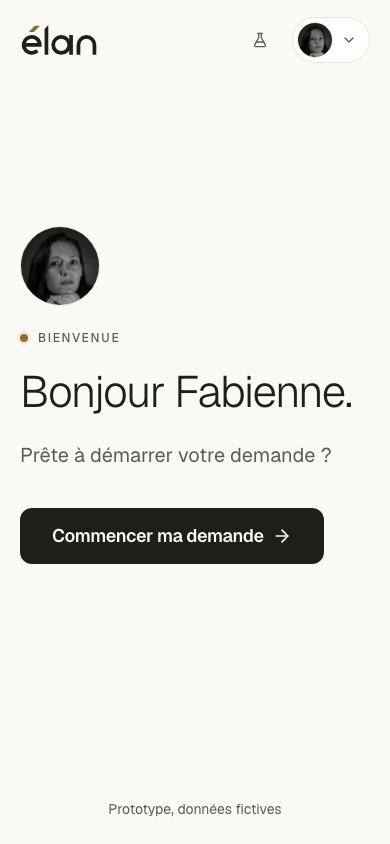
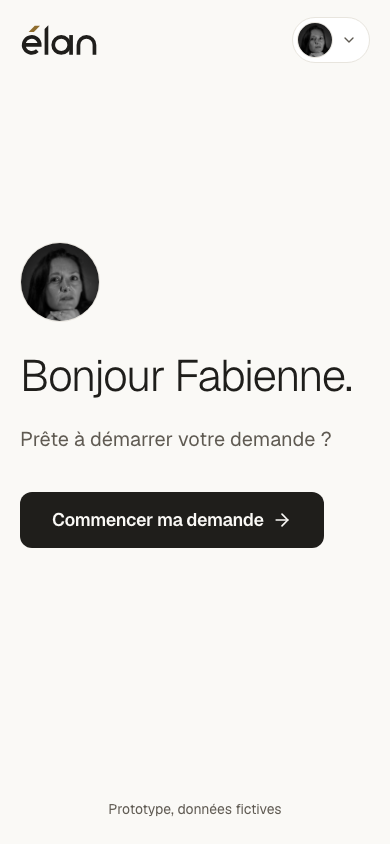
Retire l'échafaudage de démo de l'interface par défaut, supprime les textes de PM

diff --git a/html/js/page-recapitulatif.js b/html/js/page-recapitulatif.js
@@ -16,7 +16,7 @@ function vue() {
   const raison = bloque ? `Il manque ${c.manquantes.length} pièce${c.manquantes.length > 1 ? 's' : ''} obligatoire${c.manquantes.length > 1 ? 's' : ''}.` : !st.consentement ? 'Cochez la case de consentement pour envoyer.' : ''
   const off = bloque || !st.consentement
   main.innerHTML = `<div class="grid h-full min-h-0 grid-cols-[minmax(0,1fr)] gap-6 lg:grid-cols-[minmax(0,1fr)_26rem]">
-    <section aria-labelledby="titre" class="flex min-h-0 min-w-0 flex-col gap-4 lg:overflow-y-auto"><div><p class="eyebrow">Avant l’envoi</p><h1 id="titre" tabindex="-1" class="mt-3 text-[clamp(1.75rem,3vw,2.5rem)] font-bold leading-tight tracking-tighter outline-none">Vérifiez, puis envoyez votre demande.</h1></div>
+    <section aria-labelledby="titre" class="flex min-h-0 min-w-0 flex-col gap-4 lg:overflow-y-auto"><div><h1 id="titre" tabindex="-1" class=" text-[clamp(1.75rem,3vw,2.5rem)] font-bold leading-tight tracking-tighter outline-none">Vérifiez, puis envoyez votre demande.</h1></div>
       <div class="rounded-card border border-border bg-surface p-5 shadow-sm"><div class="flex items-start justify-between gap-4"><h2 class="text-lg font-semibold tracking-tight">Résumé de la demande</h2><button type="button" data-modifier class="${btn('ghost', 'sm')}">${icon('pencil')}Modifier</button></div><dl class="mt-3 grid grid-cols-[8rem_minmax(0,1fr)] gap-x-4 gap-y-2 text-base"><dt class="text-muted">Financement</dt><dd class="font-medium">${esc(f.nom)}</dd><dt class="text-muted">Objet</dt><dd class="font-medium">${esc(st.objet)}</dd><dt class="text-muted">Montant souhaité</dt><dd class="tabular font-medium">${a.montant !== undefined ? eur(a.montant) : `<button type="button" data-modifier class="tr cursor-pointer font-medium text-accent-text underline underline-offset-4">Préciser le montant</button>`}</dd></dl></div>
       <div class="rounded-card border border-border bg-surface p-5 shadow-sm"><div class="flex items-start justify-between gap-4"><h2 class="text-lg font-semibold tracking-tight">Vos pièces</h2><p class="tabular text-sm text-muted">${c.faites} sur ${c.total}${corr ? `, ${c.aCorriger.length} à corriger` : ''}</p></div><ul class="mt-3 grid gap-x-6 gap-y-1.5 sm:grid-cols-2">${PIECES.map((p) => `<li class="flex min-w-0 items-center justify-between gap-3 text-sm"><span class="min-w-0 truncate">${esc(p.nom)}</span>${badgeStatut(st.etat[p.id].statut)}</li>`).join('')}</ul></div></section>
     <aside aria-label="Envoi" class="flex min-h-0 min-w-0 flex-col gap-4 overflow-y-auto pb-2"><div class="rounded-card border border-border bg-surface p-5 shadow-md"><h2 class="text-lg font-semibold tracking-tight">Votre consentement</h2>
@@ -26,7 +26,7 @@ function vue() {
       ${echec ? `<div class="mt-4">${banniere({ ton: 'danger', titre: 'Envoi impossible', corps: esc(echec) })}</div>` : ''}
       <button type="button" id="envoyer" ${off ? `aria-disabled="true" title="${esc(raison)}"` : ''} ${envoi ? 'aria-busy="true"' : ''} class="${btn('primary', 'lg', 'mt-5 w-full')}">${envoi ? icon('loader-circle', 'size-4 animate-[spin_0.8s_linear_infinite]') : ''}${corr && !bloque ? 'Envoyer quand même' : 'Envoyer ma demande'}${icon('arrow-right', 'size-5')}</button>${raison ? `<p class="mt-2 text-xs text-muted">${esc(raison)}</p>` : ''}
       <a href="/demande/pieces" class="${btn('ghost', 'sm', 'mt-2')}">${icon('arrow-left')}Revenir aux pièces</a></div>
-      <div class="rounded-card bg-bg-soft p-5"><h2 class="text-lg font-semibold tracking-tight">Et ensuite</h2><div class="mt-3">${chronologie([{ titre: 'Réception', detail: 'Vous recevez la confirmation.', etat: 'current' }, { titre: 'Instruction par un chargé d’affaires', etat: 'todo' }, { titre: 'Réponse', detail: 'Délai estimé : sous 10 jours ouvrés', etat: 'todo' }])}</div><p class="mt-2 text-xs text-subtle">Délais et durée de conservation : exemples fictifs de démonstration.</p></div></aside></div>`
+      <div class="rounded-card bg-bg-soft p-5"><h2 class="text-lg font-semibold tracking-tight">Et ensuite</h2><div class="mt-3">${chronologie([{ titre: 'Réception', detail: 'Vous recevez la confirmation.', etat: 'current' }, { titre: 'Instruction par un chargé d’affaires', etat: 'todo' }, { titre: 'Réponse', detail: 'Délai estimé : sous 10 jours ouvrés', etat: 'todo' }])}</div></div></aside></div>`
 }
 main.addEventListener('change', (e) => { if (e.target.id === 'consent') { pieces.set({ consentement: e.target.checked }); vue(); $('#consent')?.focus() } })
 main.addEventListener('click', async (e) => {

diff --git a/html/js/page-envoyee.js b/html/js/page-envoyee.js
@@ -12,11 +12,11 @@ const st = pieces.get(), a = demande.get().answers, c = compter(st.etat)
 const f = financements.find((x) => x.id === (demande.get().financementId ?? 'pret-equipement-artisans'))
 const date = new Date(st.envoyeLe ?? Date.now())
 main.innerHTML = `<div class="mx-auto grid h-full min-h-0 max-w-5xl content-center gap-8 lg:grid-cols-[minmax(0,1fr)_24rem]">
-  <section aria-labelledby="titre" class="flex flex-col justify-center">${logo('wordmark', 'h-9 self-start')}<p class="eyebrow mt-8">Demande envoyée</p><h1 id="titre" tabindex="-1" class="mt-3 text-[clamp(2rem,4vw,3.25rem)] font-bold leading-[1.05] tracking-tighter outline-none">Votre demande est envoyée.</h1>
+  <section aria-labelledby="titre" class="flex flex-col justify-center">${logo('wordmark', 'h-9 self-start')}<h1 id="titre" tabindex="-1" class="mt-8 text-[clamp(2rem,4vw,3.25rem)] font-bold leading-[1.05] tracking-tighter outline-none">Votre demande est envoyée.</h1>
     <p class="mt-4 max-w-md text-lg text-muted">Un chargé d’affaires l’instruit. Vous pouvez encore modifier une pièce : il est prévenu de chaque changement.</p>
     <dl class="mt-6 grid grid-cols-[9rem_minmax(0,1fr)] gap-x-4 gap-y-2 text-base"><dt class="text-muted">Numéro de dossier</dt><dd class="ident font-medium">${esc(st.numero ?? '—')}</dd><dt class="text-muted">Financement</dt><dd class="font-medium">${esc(f.nom)}</dd><dt class="text-muted">Montant souhaité</dt><dd class="tabular font-medium">${a.montant !== undefined ? eur(a.montant) : 'À préciser'}</dd><dt class="text-muted">Pièces</dt><dd class="tabular font-medium">${c.faites} sur ${c.total}</dd></dl>
     <div class="mt-7 flex flex-wrap gap-3"><button type="button" id="telecharger" class="${btn('secondary')}">${icon('download')}Télécharger le récapitulatif</button><a href="/demande/pieces" class="${btn('secondary')}">Modifier mes pièces</a><button type="button" id="suivi-lien" class="${btn('ghost')}">Suivre ma demande</button></div></section>
-  <div id="suivi" class="self-center rounded-card border border-border bg-surface p-6 shadow-md"><h2 class="eyebrow">Suivi de votre demande</h2><div class="mt-5">${chronologie([{ titre: 'Réception', detail: 'Votre demande est bien arrivée.', time: date.toLocaleString('fr-FR', { day: 'numeric', month: 'long', hour: '2-digit', minute: '2-digit' }), etat: 'done' }, { titre: 'Instruction par un chargé d’affaires', detail: 'Il vérifie vos pièces et vos critères.', etat: 'current' }, { titre: 'Réponse', detail: 'Délai estimé : sous 10 jours ouvrés', etat: 'todo' }])}</div><p class="mt-3 text-xs text-subtle">Délai et numéro de dossier : exemples fictifs de démonstration.</p><a href="/pro/dossiers/argile" class="${btn('ghost', 'sm', 'mt-3')}">${icon('external-link')}Voir côté chargé d’affaires (démo)</a></div></div>`
+  <div id="suivi" class="self-center rounded-card border border-border bg-surface p-6 shadow-md"><h2 class="eyebrow">Suivi de votre demande</h2><div class="mt-5">${chronologie([{ titre: 'Réception', detail: 'Votre demande est bien arrivée.', time: date.toLocaleString('fr-FR', { day: 'numeric', month: 'long', hour: '2-digit', minute: '2-digit' }), etat: 'done' }, { titre: 'Instruction par un chargé d’affaires', detail: 'Il vérifie vos pièces et vos critères.', etat: 'current' }, { titre: 'Réponse', detail: 'Délai estimé : sous 10 jours ouvrés', etat: 'todo' }])}</div><a href="/pro/dossiers/argile" class="${btn('ghost', 'sm', 'mt-3')}">${icon('external-link')}Voir côté chargé d’affaires (démo)</a></div></div>`
 $('#suivi-lien').onclick = () => $('#suivi').scrollIntoView({ behavior: 'smooth', block: 'center' })
 $('#telecharger').onclick = () => {
   const l = ['Récapitulatif de votre demande', `Numéro : ${st.numero ?? '—'}`, `Financement : ${f.nom}`, `Objet : ${st.objet}`, `Montant souhaité : ${a.montant !== undefined ? eur(a.montant) : 'à préciser'}`, '', 'Pièces :', ...PIECES.map((p) => `- ${p.nom} : ${st.etat[p.id].statut}`), '', 'Prototype, données fictives.']

diff --git a/html/js/eligibilite.js b/html/js/eligibilite.js
@@ -67,12 +67,12 @@ function resultat() {
   const vide = `<div class="rounded-card border border-border bg-surface p-5 sm:p-6"><h2 class="text-lg font-semibold tracking-tight">Ce qu’il faudrait pour devenir éligible</h2>${proche ? `<p class="mt-1 text-sm text-muted">Le plus proche de votre situation : <span class="font-medium text-text">${esc(proche.financement.nom)}</span>.</p><ul class="mt-3 flex flex-col gap-2">${proche.manque.map((m) => `<li class="rounded-md bg-bg-soft px-4 py-3"><p class="text-sm font-medium">${esc(m.label)}</p><p class="text-sm text-muted">${esc(m.raison)}</p></li>`).join('')}</ul>` : ''}<div class="mt-4"><button type="button" data-modifier class="${btn('secondary', 'sm')}">Modifier mes réponses</button></div></div>
     <div class="rounded-card border border-border bg-surface p-5 sm:p-6"><h2 class="text-lg font-semibold tracking-tight">D’autres pistes</h2><ul class="mt-3 flex flex-col gap-3">${alternatives.map((x) => `<li><p class="text-sm font-medium">${esc(x.nom)}</p><p class="text-sm text-muted">${esc(x.texte)}</p></li>`).join('')}</ul><div class="mt-4"><button type="button" data-conseiller class="${btn('primary', 'sm')}">${icon('phone')}Parler à un conseiller</button></div></div>`
   return `<div class="grid h-full min-h-0 gap-8 lg:grid-cols-[minmax(0,26rem)_minmax(0,1fr)] xl:grid-cols-[minmax(0,30rem)_minmax(0,1fr)]">
-    <section class="flex min-h-0 flex-col gap-5 lg:overflow-y-auto" aria-labelledby="resultat"><p class="eyebrow">Votre résultat</p>
+    <section class="flex min-h-0 flex-col gap-5 lg:overflow-y-auto" aria-labelledby="resultat">
       <h1 id="resultat" tabindex="-1" class="text-[clamp(1.875rem,3.2vw,2.875rem)] font-bold leading-[1.06] tracking-tighter outline-none">${liste.length > 0 ? `${liste.length === 1 ? '1 financement correspond' : `${liste.length} financements correspondent`} à votre projet.` : 'Aucun financement ne correspond pour l’instant.'}</h1>
       <div class="bg-ai rounded-md p-4 text-[var(--color-ai-text)]"><p class="mb-2 flex items-center gap-2 text-xs font-semibold uppercase tracking-wide text-[var(--color-ai-accent)]"><span aria-hidden="true" class="ai-line h-0.5 w-4 rounded-full"></span>Assistant Élan, généré par IA</p><p class="text-base leading-relaxed">${esc(explicationTete(a))}</p><p class="mt-3 border-t border-[var(--color-ai-border)] pt-2 text-xs text-[var(--color-ai-muted)]">Source : ${esc(REFERENTIEL)}</p></div>
       ${out.length ? `<details class="accordeon rounded-card border border-border bg-surface"><summary class="tr flex min-h-14 items-center justify-between gap-3 rounded-card px-5 py-3 hover:bg-bg-soft"><span class="font-semibold">Pourquoi pas les autres ? <span class="font-normal text-muted">(${out.length})</span></span><span class="chevron tr">${icon('chevron-down', 'size-5 text-muted')}</span></summary><ul class="flex flex-col gap-3 px-5 pb-5">${out.map((e) => `<li><p class="font-medium">${esc(e.financement.nom)}</p><p class="text-sm text-muted">${esc(e.pourquoiPas)}</p></li>`).join('')}</ul></details>` : ''}
       <div class="flex flex-wrap items-center gap-x-4 gap-y-1 text-sm"><button type="button" data-modifier class="tr min-h-11 cursor-pointer font-medium underline underline-offset-4 hover:text-accent-text">Modifier mes réponses</button><button type="button" data-conseiller class="tr min-h-11 cursor-pointer font-medium underline underline-offset-4 hover:text-accent-text">Parler à un conseiller</button></div>
-      <p class="text-xs text-subtle">Délais, montants et plafonds : exemples fictifs de démonstration.</p></section>
+    </section>
     <section class="flex min-h-0 flex-col gap-4 lg:overflow-y-auto" aria-label="${liste.length ? 'Financements possibles' : 'Pistes'}">${liste.length ? `<ul class="flex flex-col gap-4">${cartes}</ul>` : vide}</section></div>`
 }
 

diff --git a/html/js/page-pro.js b/html/js/page-pro.js
@@ -93,7 +93,7 @@ function rendre() {
   const relancer = pret ? `<button type="button" data-msg="confirmation" class="${btn('secondary')}">Confirmer la réception</button>` : `<button type="button" data-msg="relance" class="${btn('primary')}">Relancer</button>`
   const correction = d.aCorriger.length ? `<button type="button" data-msg="correction" class="${btn('ghost')}">Demander une correction</button>` : ''
   const corps = `${fileTravail(file)}<div class="flex min-h-0 min-w-0 flex-col gap-4">
-    <div class="rounded-card border border-border bg-surface p-5 shadow-sm"><div class="flex flex-wrap items-start justify-between gap-x-6 gap-y-3"><div class="min-w-0"><div class="flex flex-wrap items-center gap-3"><h1 tabindex="-1" class="text-2xl font-bold tracking-tighter outline-none">${esc(d.entreprise)}</h1>${statutBadge(d)}</div><p class="mt-1 text-muted">${esc(d.f.nom)} · <span class="tabular">${a.montant !== undefined ? eur(a.montant) : 'montant non renseigné'}</span> · envoyé le ${jour(d.envoyeLe)} · <span class="ident text-sm">${esc(d.numero ?? '')}</span></p><p class="mt-2 flex items-center gap-2 text-sm text-muted">${icon('clock')}<span class="tabular">Temps de relance estimé : environ 25 min (45 min sans Élan)</span><span class="text-xs text-subtle">ordre de grandeur à calibrer</span></p></div>
+    <div class="rounded-card border border-border bg-surface p-5 shadow-sm"><div class="flex flex-wrap items-start justify-between gap-x-6 gap-y-3"><div class="min-w-0"><div class="flex flex-wrap items-center gap-3"><h1 tabindex="-1" class="text-2xl font-bold tracking-tighter outline-none">${esc(d.entreprise)}</h1>${statutBadge(d)}</div><p class="mt-1 text-muted">${esc(d.f.nom)} · <span class="tabular">${a.montant !== undefined ? eur(a.montant) : 'montant non renseigné'}</span> · envoyé le ${jour(d.envoyeLe)} · <span class="ident text-sm">${esc(d.numero ?? '')}</span></p></div>
       <div class="flex flex-wrap items-center gap-2">${pret ? aInstruire + relancer : relancer + aInstruire}${correction}</div></div>
       ${pret ? '' : `<p id="raison-instruire" class="mt-3 text-sm text-muted">Instruire sera possible quand les pièces obligatoires ${d.manque.length ? 'manquantes ' : ''}${d.manque.length && d.aCorriger.length ? 'et ' : ''}${d.aCorriger.length ? 'à corriger ' : ''}seront reçues et vérifiées.</p>`}</div>
     <div class="grid min-h-0 min-w-0 flex-1 gap-4 lg:grid-cols-[minmax(0,0.9fr)_minmax(0,1.1fr)] lg:grid-rows-[minmax(0,1fr)]">

diff --git a/html/js/demo.js b/html/js/demo.js
@@ -36,7 +36,8 @@ export function ouvrirProfils() {
   const d = modale({ titre: 'Changer de profil', description: 'Le prototype se parcourt avec trois points de vue. Vos données sont conservées.', corps: `<ul class="flex flex-col gap-2">${PROFILS.map(([id, nom, , role]) => `<li><button type="button" data-profil-choix="${id}" aria-current="${courant === id}" class="tr flex min-h-16 w-full cursor-pointer items-center gap-4 rounded-md border px-4 py-3 text-left ${courant === id ? 'border-accent bg-accent-soft' : 'border-border bg-surface hover:bg-bg-soft'}">${avatar(id, 'size-11')}<span class="flex-1"><span class="block font-semibold tracking-tight">${esc(nom)}</span><span class="block text-sm text-muted">${esc(role)}</span></span>${courant === id ? icon('check', 'size-5 text-accent-text') : ''}</button></li>`).join('')}</ul>`, pied: `<button type="button" data-fermer class="${btn('ghost')}">Fermer</button>` }).ouvrir()
   d.addEventListener('click', (e) => { const c = e.target.closest('[data-profil-choix]'); if (!c) return; ui.set({ persona: c.dataset.profilChoix }); location.href = '/bonjour' })
 }
-export const boutonDemo = () => (location.pathname === '/' ? '' : `<button type="button" data-demo-ouvrir aria-expanded="false" aria-controls="panneau-demo" aria-label="Démo, panneau de démonstration" class="${btn('ghost', 'sm', '!text-muted hover:!text-text')}">${icon('flask-conical')}<span class="hidden sm:inline">Démo</span></button>`)
+if (new URLSearchParams(location.search).has('demo')) ui.set({ demoVisible: true })
+export const boutonDemo = () => (location.pathname === '/' || !ui.get().demoVisible ? '' : `<button type="button" data-demo-ouvrir aria-expanded="false" aria-controls="panneau-demo" aria-label="Démo, panneau de démonstration" class="${btn('ghost', 'sm', '!text-muted hover:!text-text')}">${icon('flask-conical')}<span class="hidden sm:inline">Démo</span></button>`)
 
 const segment = (nom, courant, options, attr) => `<fieldset class="flex flex-col gap-1.5"><legend class="eyebrow before:!hidden mb-1">${nom}</legend><div class="flex flex-wrap gap-1.5">${options.map(([id, l]) => `<button type="button" data-${attr}="${esc(id ?? '')}" aria-pressed="${courant === id}" class="tr min-h-9 cursor-pointer rounded-full border border-border-strong px-3 text-sm font-medium hover:bg-bg-soft aria-pressed:border-text aria-pressed:bg-text aria-pressed:text-bg">${l}</button>`).join('')}</div></fieldset>`
 

diff --git a/html/js/page-bonjour.js b/html/js/page-bonjour.js
@@ -18,8 +18,8 @@ function rendre() {
   const commence = id === 'fabienne' && (Object.keys(pieces.get().etat).some((k) => complete(pieces.get().etat[k].statut)) || demande.get().step > 0)
   racine.innerHTML = `<a href="#contenu" class="sr-only focus:not-sr-only focus:fixed focus:left-4 focus:top-4 focus:z-[var(--z-demo)] focus:rounded-sm focus:bg-text focus:px-4 focus:py-2 focus:text-bg">Aller au contenu</a>
   <header class="mx-auto flex h-20 w-full max-w-[88rem] items-center justify-between px-5 sm:px-8"><a href="/" aria-label="Élan, accueil">${logo('wordmark', 'h-8')}</a><div class="flex items-center gap-2">${boutonDemo()}${boutonProfil()}</div></header>
-  <main id="contenu" class="mx-auto flex w-full max-w-[64rem] flex-1 flex-col justify-center px-5 pb-16 sm:px-8">${avatar(id, 'size-20')}<p class="eyebrow mt-6">Bienvenue</p>
-    <h1 tabindex="-1" class="mt-6 text-[clamp(2.75rem,7vw,5.5rem)] font-light leading-[1.02] tracking-[-0.03em] outline-none">${esc(p.salut)}</h1><p class="mt-6 max-w-2xl text-xl leading-relaxed text-muted">${esc(p.texte)}</p>
+  <main id="contenu" class="mx-auto flex w-full max-w-[64rem] flex-1 flex-col justify-center px-5 pb-16 sm:px-8">${avatar(id, 'size-20')}
+    <h1 tabindex="-1" class="mt-8 text-[clamp(2.75rem,7vw,5.5rem)] font-light leading-[1.02] tracking-[-0.03em] outline-none">${esc(p.salut)}</h1><p class="mt-6 max-w-2xl text-xl leading-relaxed text-muted">${esc(p.texte)}</p>
     <div class="mt-9 flex flex-wrap items-center gap-4"><a href="${p.url}" class="${btn('primary', 'lg')}">${commence ? 'Reprendre ma demande' : esc(p.cta)}${icon('arrow-right', 'size-5')}</a>${commence ? `<a href="/eligibilite?recommencer" class="${btn('ghost', 'lg')}">Recommencer</a>` : ''}</div>
 </main>
   <footer class="px-5 py-6 text-center sm:px-8"><p class="text-sm text-muted">Prototype, données fictives</p></footer>`

diff --git a/html/js/page-pieces.js b/html/js/page-pieces.js
@@ -107,7 +107,7 @@ main.addEventListener('click', (e) => {
   if (t.closest('[data-annuler-na]')) return patch(selection, { statut: 'a-fournir', raison: undefined })
   if (t.closest('[data-moi-meme]')) return patch(selection, { statut: 'a-fournir' })
   if (t.closest('[data-na]')) return nonApplicable(p)
-  if (t.closest('[data-exemple]')) return modale({ titre: `Exemple : ${p.nom}`, description: 'Document fictif, pour savoir ce qu’on attend.', corps: `<div class="grid place-items-center py-2">${documentExemple(p)}</div>`, pied: `<button type="button" data-fermer class="${btn('secondary')}">Fermer</button>` }).ouvrir()
+  if (t.closest('[data-exemple]')) return modale({ titre: `Exemple : ${p.nom}`, description: 'Pour savoir ce qu’on attend.', corps: `<div class="grid place-items-center py-2">${documentExemple(p)}</div>`, pied: `<button type="button" data-fermer class="${btn('secondary')}">Fermer</button>` }).ouvrir()
   const ai = t.closest('[data-aide]'); if (ai) return assistant(ai.dataset.aide)
   if (t.closest('[data-inviter]')) return invitation()
   if (t.closest('[data-revoquer]')) return revoquer()

diff --git a/html/js/shell.js b/html/js/shell.js
@@ -33,7 +33,7 @@ export function monterCoque({ step, fit = true, wide = true, titre }) {
         <div class="flex items-center gap-3">
           <p id="montant-entete" class="hidden items-center gap-3 rounded-md border border-border bg-surface px-4 py-1.5 md:flex" aria-label="Montant souhaité"><span class="eyebrow !tracking-[0.1em] before:!hidden">Montant souhaité</span><span class="tabular text-2xl font-bold leading-none tracking-tighter" data-montant>${montantHtml()}</span></p>
           ${boutonDemo()}
-          <button type="button" id="reinit" class="${btn('ghost', 'sm', 'hidden sm:inline-flex')}">Réinitialiser</button>
+          <button type="button" id="reinit" class="${btn('ghost', 'sm', ui.get().demoVisible ? 'hidden sm:inline-flex' : 'hidden')}">Réinitialiser</button>
           <button type="button" id="aide" class="${btn('ghost', 'sm')}" aria-label="Aide">${icon('life-buoy')}<span class="hidden sm:inline">Aide</span></button>
           ${boutonProfil()}
         </div>

diff --git a/html/js/state.js b/html/js/state.js
@@ -9,7 +9,7 @@ export const demande = creerStore('elan:demande:html', () => ({ answers: { ...FA
 export const setReponse = (k, v) => demande.set((s) => ({ answers: { ...s.answers, [k]: v } }))
 
 // ---------- Interface et démonstration ----------
-export const ui = creerStore('elan:ui:html', () => ({ bandeauMasque: false, persona: 'fabienne' }))
+export const ui = creerStore('elan:ui:html:v2', () => ({ bandeauMasque: true, demoVisible: false, persona: 'fabienne' }))
 
 // ---------- Journal des événements (panneau Mesure) ----------
 export const evenements = creerStore('elan:events:html', () => ({ items: [] }), { session: true })

diff --git a/docs/decisions.md b/docs/decisions.md
@@ -185,3 +185,9 @@ Format : contexte, options, choix, raison.
 - Récapitulatif : alerte « Une pièce reste à corriger » (pièce, motif, conséquence : le chargé d'affaires la redemandera, instruction possiblement plus longue), bouton « Envoyer quand même », compteur « 6 sur 9, 1 à corriger ». Page Pièces : consigne et message d'aide alignés. Principe : l'IA alerte, l'humain décide.
 - Scénario « Une pièce à corriger » ouvre la pièce Bilans. « Commencer » (accueil) rétablit le persona Fabienne via `?depuis-accueil`. Journal Nicolas : les questions réelles posées à l'assistant apparaissent dès qu'elles existent. Logo de confirmation aligné sur la colonne de texte (mesuré, écart 0 px).
 - « Recommencer » (écran Bonjour) efface les réponses d'éligibilité et revient à la question 1 (`/eligibilite?recommencer`). Les motifs de correction sont mis en minuscule après les deux-points dans le récapitulatif et le message de relance.
+
+## D32 · Retirer l'échafaudage de démo de l'interface (2026-11-06)
+- Retour reçu : le parcours paraissait trop « PM ». Par défaut, l'interface ne montre plus ce qui sert à présenter : bandeau « données fictives », bouton Démo, bouton Réinitialiser. Le panneau reste accessible par Maj + D, ou en ajoutant `?demo` à l'adresse (utile sur mobile), ce qui affiche aussi le bouton Démo.
+- Textes retirés de l'écran : « exemples fictifs de démonstration » (résultat, récapitulatif, confirmation), « temps de relance estimé » chez Nicolas (indicateur gardé dans l'onglet Mesure), et les petits titres redondants au-dessus des titres principaux (Bienvenue, Avant l'envoi, Demande envoyée, Votre résultat).
+- Le bouton de changement de profil reste visible : il sert au parcours.
+- Clés de stockage de l'interface passées en `:v2` pour que le nouveau défaut s'applique aussi aux navigateurs déjà utilisés.

diff --git a/docs/demo-script.md b/docs/demo-script.md
@@ -1,5 +1,7 @@
 # Script de la vidéo de démonstration (3 minutes)
 
+> Pour présenter : Maj + D ouvre le panneau de démo (ou ajouter `?demo` à l’adresse, utile sur mobile). Par défaut, l’interface n’affiche ni bandeau, ni bouton Démo, ni Réinitialiser.
+
 Aligné sur la visite guidée du panneau de démo (Démo, puis « Lancer la visite guidée », ou Maj + D). Chaque étape avance seule après 22 secondes, avec Pause, Retour et Quitter.
 
 | Temps | Écran | Action | Phrase à dire |
